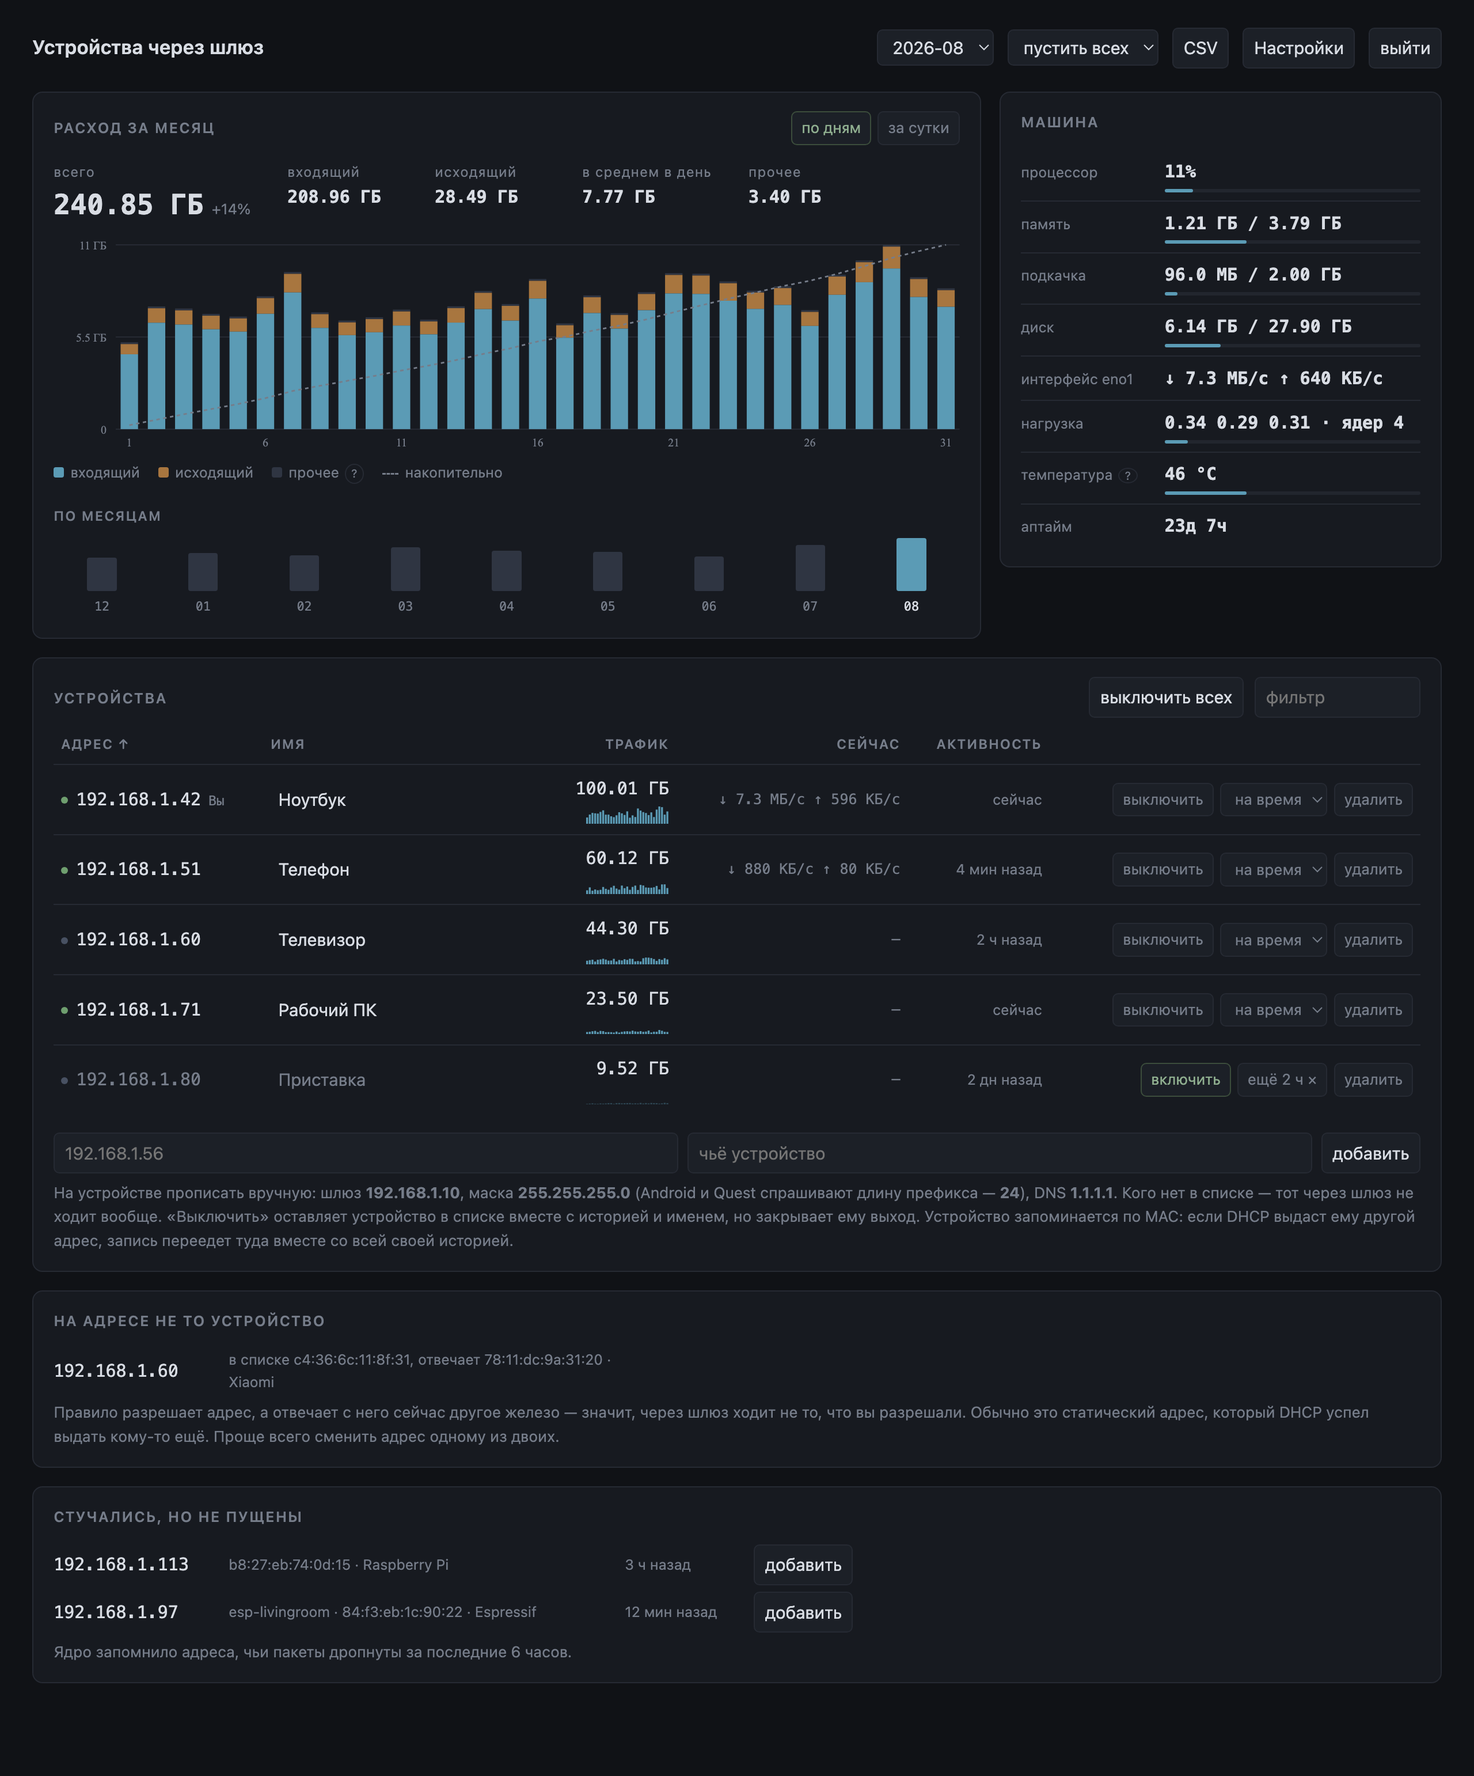
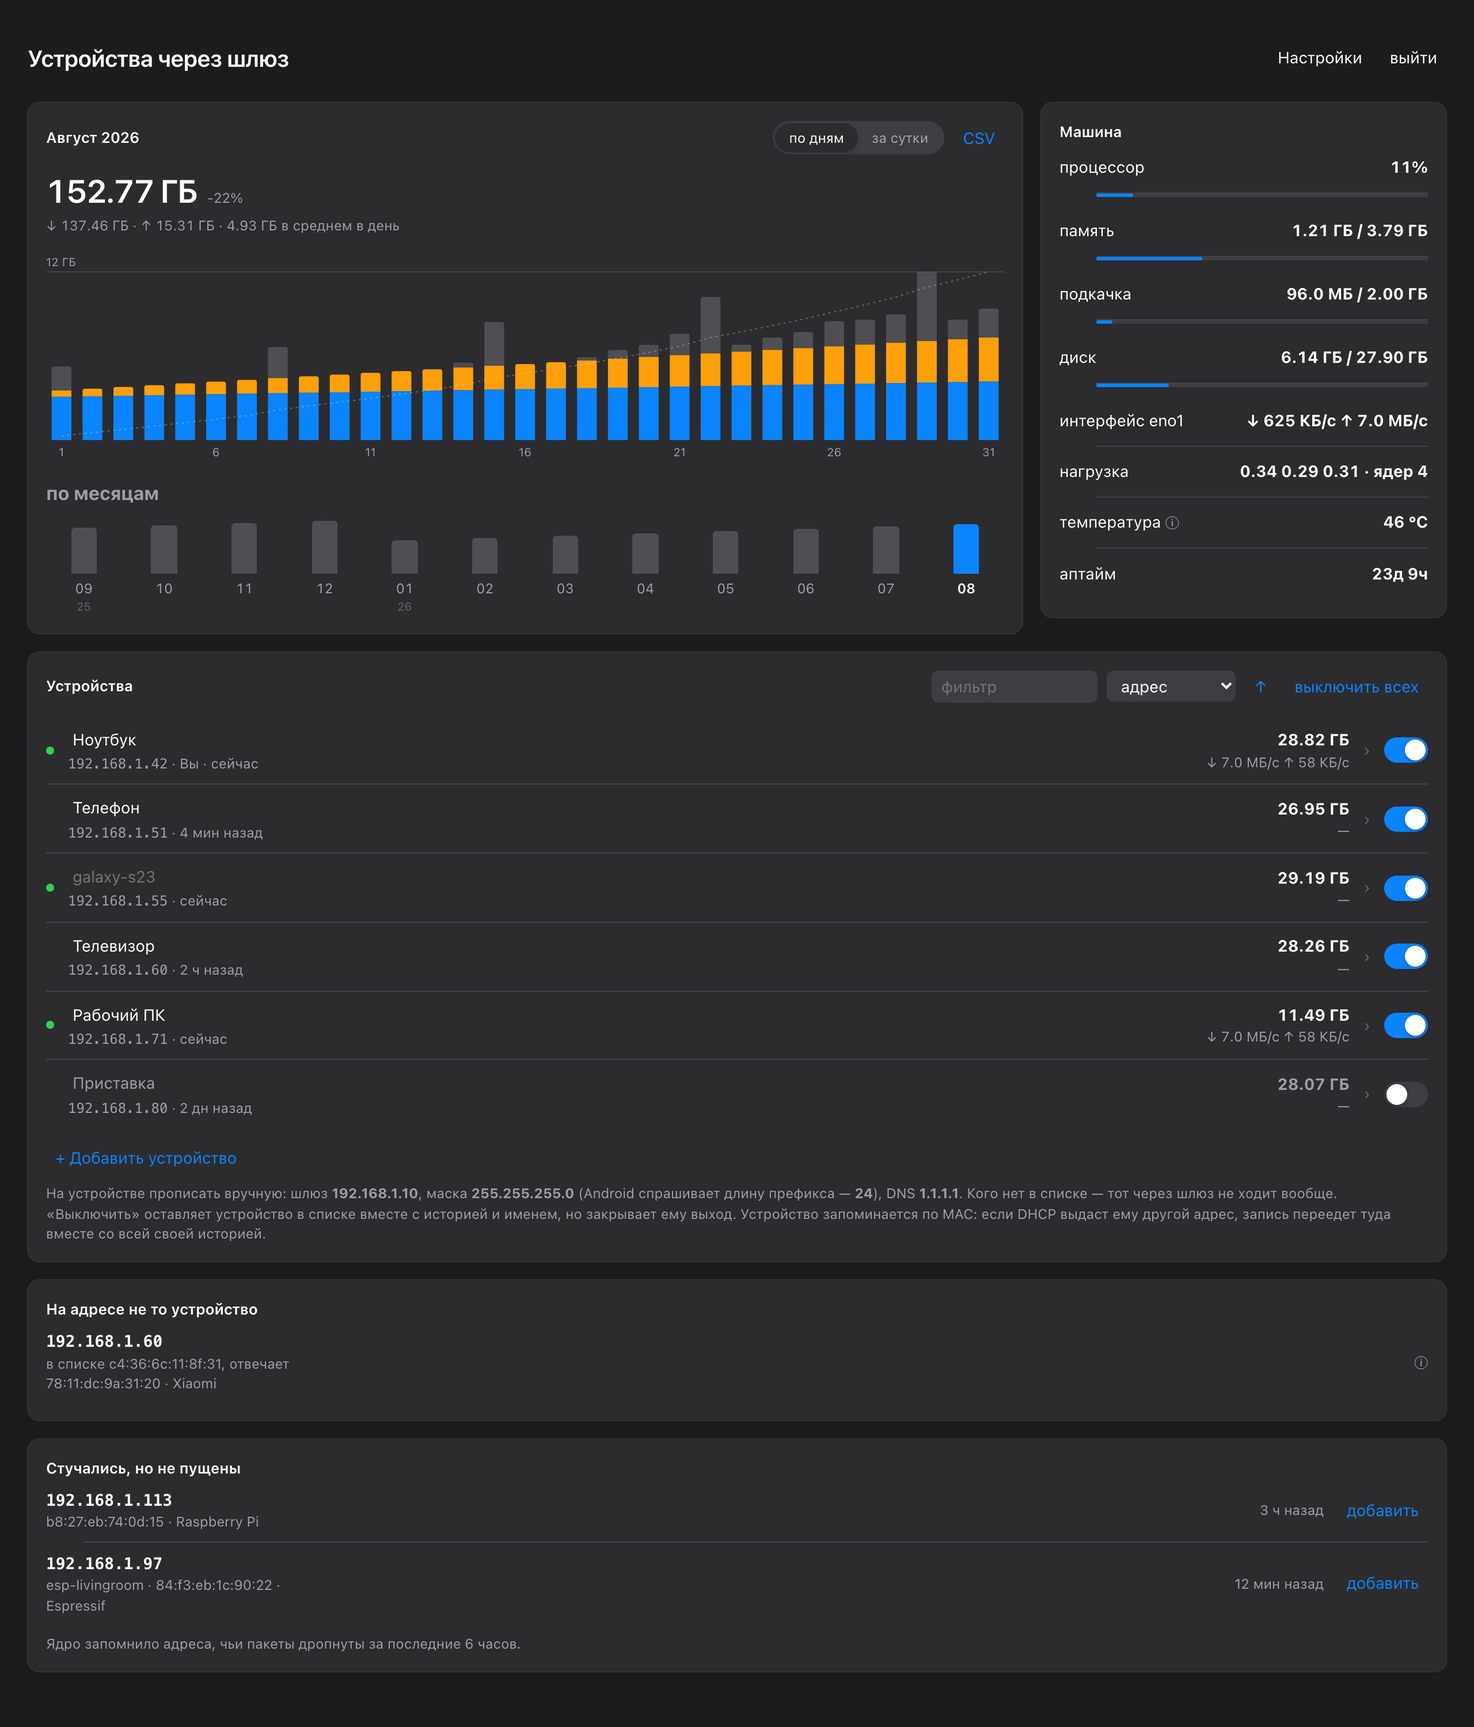
Скриншоты и документация под новый интерфейс

diff --git a/README.ru.md b/README.ru.md
@@ -26,34 +26,35 @@
 - **Трафик по устройствам**, входящий и исходящий, копится подённо и суммируется
   за месяц. График по дням с накопительной линией поверх, последние сутки,
   столбик на каждый месяц, спарклайн в каждой строке и любое одно устройство
-  отдельно — по клику на его адрес. Всё inline-SVG, без единой внешней
-  библиотеки.
+  отдельно — раскройте его строку и нажмите «Показать в графике». Всё
+  inline-SVG, без единой внешней библиотеки.
 - **Скорость сейчас.** Тот же опрос, что копит счётчики, делит их на пройденное
   окно — и строка говорит, что устройство тянет прямо в эту минуту.
 - **Сама машина.** Процессор, память, подкачка, диск, нагрузка, температура,
   аптайм и пропускная способность интерфейса — прямо из `/proc` и `/sys`.
 - **Выключить устройство**, не удаляя: имя и статистика остаются на месте.
-- **...или выключить на время.** Рядом с переключателем — меню: пятнадцать
+- **...или выключить на время.** Раскройте строку — там меню: пятнадцать
   минут, час, три, восемь или до семи утра. Когда срок выйдет, устройство само
   вернётся в то состояние, в котором стояло. В обратную сторону работает так же:
   выключенное можно выпустить на час.
-- **...или выпустить мимо VPN, а не выключать.** Вторая кнопка уводит одно
-  устройство в обход туннеля: интернет у него остаётся — напрямую через шлюз, —
-  пока всё остальное идёт внутри. Его пакеты помечаются fwmark, которую туннель
-  считает не своей: `"vpn_mark"` в `config.json`, `8228` (`0x2024`) для sing-box,
-  `51820` для стандартного wg-quick, `0` — кнопки нет. Число берите со своего
-  шлюза: соседняя метка делает ровно обратное. Метка ставится по MAC, поэтому
-  IPv4 и IPv6 уходят вместе: наполовину выведенное из туннеля устройство любой
-  сайт всё равно показывает на выходной ноде. Подробности в
-  [docs/singbox.md](docs/singbox.md).
+- **...или выпустить мимо VPN, а не выключать.** Переключатель в той же строке
+  уводит одно устройство в обход туннеля: интернет у него остаётся — напрямую
+  через шлюз, — пока всё остальное идёт внутри. Его пакеты помечаются fwmark,
+  которую туннель считает не своей: `"vpn_mark"` в `config.json`, `8228`
+  (`0x2024`) для sing-box, `51820` для стандартного wg-quick, `0` — переключателя нет.
+  Число берите со своего шлюза: соседняя метка делает ровно обратное. Метка
+  ставится по MAC, поэтому IPv4 и IPv6 уходят вместе: наполовину выведенное из
+  туннеля устройство любой сайт всё равно показывает на выходной ноде.
+  Подробности в [docs/singbox.md](docs/singbox.md).
 - **Устройство держится за свой MAC.** DHCP выдал знакомому устройству другой
   адрес — запись переезжает туда вместе с именем, переключателем и всей
   историей трафика, а не превращается тихо в правило ни для кого.
-- **Пустить всех на время.** Меню в углу снимает список целиком на пять минут,
-  пятнадцать или час — для гостей или для того, чтобы разобраться, почему
-  что-то не подключается. Учёт при этом не прерывается, и ядро всё так же
-  записывает, кто приходил: когда время выйдет, все, кто успел воспользоваться,
-  окажутся в списке внизу — в одном клике от того, чтобы разрешить их насовсем.
+- **Пустить всех на время.** Управление — в Настройках: снимает список целиком
+  на пять минут, пятнадцать или час — для гостей или для того, чтобы
+  разобраться, почему что-то не подключается. Учёт при этом не прерывается, и
+  ядро всё так же записывает, кто приходил: когда время выйдет, все, кто успел
+  воспользоваться, окажутся в списке внизу — в одном клике от того, чтобы
+  разрешить их насовсем.
 - **Выключить всех разом**, кроме адреса, с которого нажали. Та же кнопка
   возвращает всех обратно.
 - **Предупреждение, когда на адресе отвечает не то устройство**: запись
@@ -67,8 +68,9 @@
   подсказывает всё, что система знает про сеть, — по памяти вводить не нужно.
 - **Переименование** прямо в строке — или взять то имя, которым устройство
   представляется сети: оно предлагается в конце поля, пока то пустое.
-  Переименование не трогает nftables, поэтому счётчики целы. Таблица
-  сортируется по любой колонке — мышью или с клавиатуры, — фильтруется по
+  Переименование не трогает nftables, поэтому счётчики целы. Список
+  сортируется по адресу, имени, трафику, текущей скорости или активности —
+  выбором из меню, направление меняется отдельной кнопкой, — фильтруется по
   адресу, имени и сетевому имени, и выгружается в CSV за выбранный месяц.
 - **Уведомление об обновлении и кнопка под ним.** Раз в сутки панель спрашивает
   у GitHub тег последнего релиза и, если ваш старее, показывает баннер.
@@ -91,8 +93,9 @@
 - **Ребут по расписанию** — переключателем, по умолчанию выключен; когда
   включаете, время уже стоит на 5:30.
 - **Светлая и тёмная тема** — та, на которую настроена машина, с которой
-  смотрят. Если положить панель на домашний экран телефона, у неё будет свой
-  значок, а строка состояния покрасится в цвет страницы.
+  смотрят, или выбор вручную в Настройках: Авто, Светлая или Тёмная — держится
+  в этом браузере. Если положить панель на домашний экран телефона, у неё будет
+  свой значок, а строка состояния покрасится в цвет страницы.
 
 Всё на стандартной библиотеке Python и inline-SVG. Ни pip, ни npm, ни CDN —
 панель работает даже когда интернета нет вовсе.

diff --git a/README.md b/README.md
@@ -28,30 +28,31 @@ device ──► this Linux host ──► uplink or tunnel (sing-box / WireGuar
 - **Per-device traffic**, upload and download, accumulated per day and summed per
   month. A daily chart with the running total drawn over it, the last 24 hours,
   a bar per month, a sparkline in every row, and any single device on its own —
-  click its address. All inline SVG, no external libraries.
+  open its row and press *Show in chart*. All inline SVG, no external libraries.
 - **Live speed.** The poll that accrues the counters also divides them by the
   window it covered, so each row says what that device is pulling right now.
 - **The machine itself.** Processor, memory, swap, disk, load, temperature,
   uptime and the interface's throughput, read straight out of `/proc` and
   `/sys`.
 - **Turn a device off** without deleting it — keeps its name and history.
-- **...or off for a while.** Next to the switch, a menu: fifteen minutes, an
+- **...or off for a while.** Open its row and a menu offers fifteen minutes, an
   hour, three, eight, or until seven in the morning. When the time is up the
   device goes back to the state it was in, by itself. It reads the other way
   round just as well — a device that is off can be let out for an hour.
-- **...or past the VPN instead of off.** A second button sends one device around
-  the tunnel: it keeps its internet, straight out through the gateway, while
-  everything else stays inside. Its packets are stamped with an fwmark the
-  tunnel treats as none of its business — `"vpn_mark"` in `config.json`, `8228`
-  (`0x2024`) for sing-box, `51820` for a stock wg-quick, `0` to hide the button.
-  Read that number off your own host — the neighbouring mark does the opposite.
+- **...or past the VPN instead of off.** A switch in the same row sends one
+  device around the tunnel: it keeps its internet, straight out through the
+  gateway, while everything else stays inside. Its packets are stamped with an
+  fwmark the tunnel treats as none of its business — `"vpn_mark"` in
+  `config.json`, `8228` (`0x2024`) for sing-box, `51820` for a stock wg-quick,
+  `0` to hide the switch. Read that number off your own host — the neighbouring
+  mark does the opposite.
   Marked by hardware address, so IPv4 and IPv6 leave together: half a device out
   of the tunnel is a device every site still places at the exit node. See
   [docs/singbox.md](docs/singbox.md).
 - **Devices follow their hardware address.** DHCP hands a known device another
   address, and the entry moves there with its name, its switch and all of its
   traffic history — instead of quietly becoming a rule for nobody.
-- **Let everyone in for a while.** One menu in the corner suspends the list
+- **Let everyone in for a while.** A control under Settings suspends the list
   itself for five minutes, fifteen or an hour — for guests, or for working out
   why something will not connect. The accounting carries on and the kernel goes
   on recording who came, so when the window shuts, everything that used it is
@@ -71,9 +72,10 @@ device ──► this Linux host ──► uplink or tunnel (sing-box / WireGuar
   from memory.
 - **Rename devices** inline, or take the name the device gives the network: it
   is offered at the end of the field while that is still empty. Renaming never
-  touches nftables, so counters survive. Sort the table by any column — with the
-  mouse or the keyboard — filter it by address, name or hostname, and download
-  the selected month as CSV.
+  touches nftables, so counters survive. Sort the list by address, name,
+  traffic, current speed or last seen — pick from a menu, flip the direction
+  with one button — filter it by address, name or hostname, and download the
+  selected month as CSV.
 - **Update notice, and the button under it.** Once a day the panel asks GitHub
   for the latest release tag and shows a banner if yours is older. *Install now*
   fetches that release and runs the installer with the answers you already gave,
@@ -93,8 +95,10 @@ device ──► this Linux host ──► uplink or tunnel (sing-box / WireGuar
   `config.json` behind one form, validated before it is written. Next to the
   save button, a reboot for the gateway itself — it asks first.
 - **A nightly reboot** on a switch — off by default, 05:30 when you turn it on.
-- **Light and dark**, whichever the machine looking at it is set to. Kept on a
-  phone's home screen it gets its own icon and paints the status bar to match.
+- **Light and dark**, whichever the machine looking at it is set to, or pick one
+  yourself in Settings — Auto, Light or Dark, remembered in this browser. Kept
+  on a phone's home screen it gets its own icon and paints the status bar to
+  match.
 
 Everything is Python standard library and inline SVG. No pip, no npm, no CDN —
 the panel works with no internet at all.
